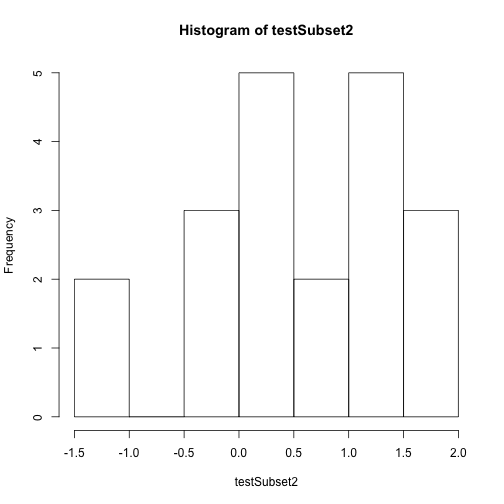
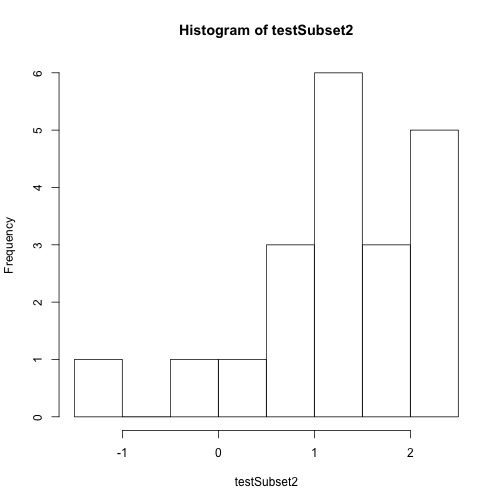
trying to figure htis out

diff --git a/_posts/HDF5/2014-11-05-Intro-HDF5-R.md b/_posts/HDF5/2014-11-05-Intro-HDF5-R.md
@@ -12,7 +12,7 @@ categories: [coding-and-informatics]
 category: coding-and-informatics
 tags: [HDF5,R]
 mainTag: HDF5
-description: "Learn how to build a HDF5 file in R from scratch! Add groups,  datasets and attributes. Read data out from the file."
+description: "Learn how to build a HDF5 file in R from scratch! Add groups, datasets and attributes. Read data out from the file."
 code1: R/2014-11-05-Intro-HDF5-R.Rmd
 image:
   feature: hierarchy_folder_purple.png
@@ -33,8 +33,6 @@ comments: true
 </section>
 <!-- /#table-of-contents -->
 
-another test 
-
 <div id="objectives">
 <strong>R Skill Level: </strong> intermediate
 
@@ -53,7 +51,6 @@ After completing this activity, you will:
 </ul>
 </div>
 
-test
 
 ###A Brief Review - About HDF5
 The HDF5 file can store large, heterogeneous datasets that include metadata. It also supports efficient `data slicing`, or extraction of particular subsets of a dataset which means that you don't have to read  large files read into the computers memory / RAM in their entirety in order work with them. 
@@ -138,27 +135,27 @@ are working with larger datasets!
 
     ## $aNEONSite
     ## $aNEONSite$temperature
-    ##              [,1]        [,2]
-    ##  [1,]  0.41876579  0.47304493
-    ##  [2,]  0.26992476  0.01736968
-    ##  [3,]  0.92754062  0.99142184
-    ##  [4,] -1.38267492  1.52099682
-    ##  [5,]  0.41748964  0.34937583
-    ##  [6,] -1.14791613 -0.22284952
-    ##  [7,]  1.05651223  1.88510086
-    ##  [8,]  0.95228857 -0.15413769
-    ##  [9,]  1.28298255  1.20589400
-    ## [10,]  1.65391846  0.81520232
-    ## [11,]  0.42206554  1.14110574
-    ## [12,] -0.22036925 -0.93463842
-    ## [13,]  1.33320471  0.89594769
-    ## [14,]  1.41752799  0.04776656
-    ## [15,] -0.17636189  2.62954308
-    ## [16,]  1.00531615  2.09028512
-    ## [17,]  1.56271396  2.93619925
-    ## [18,]  1.62063733  0.99033964
-    ## [19,] -0.02780379  2.15332172
-    ## [20,]  0.01876479 -0.48630334
+    ##             [,1]         [,2]
+    ##  [1,]  2.4691404  0.106244124
+    ##  [2,]  1.1927306 -0.009369911
+    ##  [3,] -0.3845129  1.956008057
+    ##  [4,]  2.0904952  2.326685407
+    ##  [5,] -1.0381329  0.786885630
+    ##  [6,]  1.0194901  0.789105183
+    ##  [7,]  0.9979608  2.164070893
+    ##  [8,]  2.1708507 -1.282972798
+    ##  [9,]  0.5110501  0.209025231
+    ## [10,]  1.5226015 -0.098955269
+    ## [11,]  1.4766434  2.567977985
+    ## [12,]  1.7703900  0.549488569
+    ## [13,]  0.9675989  1.045279356
+    ## [14,]  1.3576914 -0.056939813
+    ## [15,]  1.2548345  0.704958360
+    ## [16,]  1.0654462  1.748153415
+    ## [17,]  0.1638416  1.821653396
+    ## [18,]  2.0785869 -0.249385228
+    ## [19,]  1.7083970  0.681380353
+    ## [20,]  2.4631740  1.404292389
 
     #Close the file. This is good practice.
     H5close()
